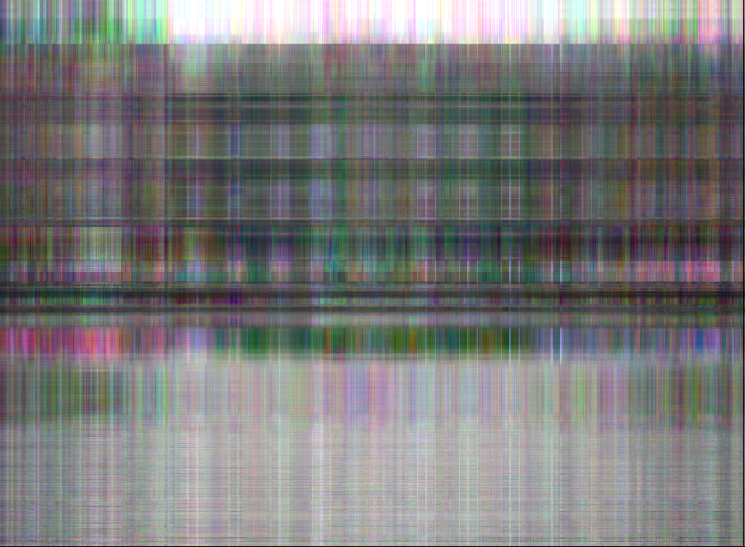
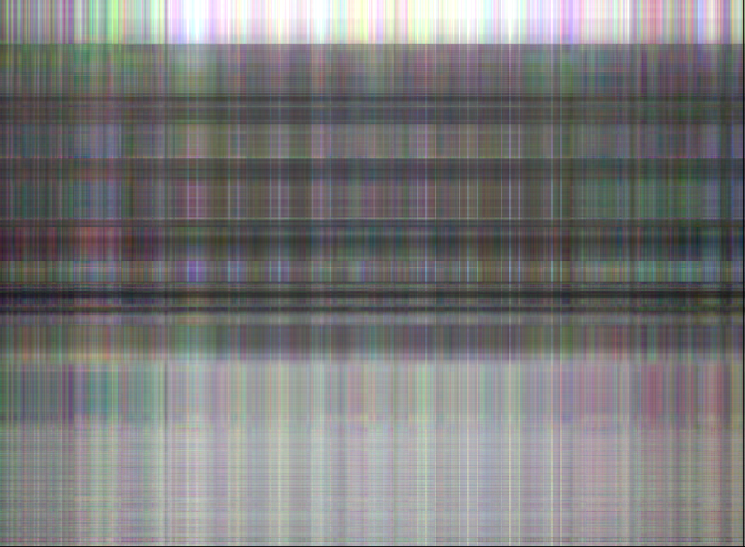
Done

diff --git a/RunMeNMF3.m b/RunMeNMF3.m
@@ -7,7 +7,7 @@ nbvisages = 100; %pour ne pas travailler sur l'ensemble des 2429 visages, mais o
 Xtemp=X(:,1:nbvisages);
 affichage(Xtemp,20,19,19);
 
-r = 8;
+r = 4;
 timelimit=30;
 
 [m,n]=size(Xtemp);

diff --git a/RunMeNMF2.m b/RunMeNMF2.m
@@ -29,4 +29,6 @@ I(:,:,1)=uint8(X1t);
 I(:,:,2)=uint8(X2t);
 I(:,:,3)=uint8(X3t);
 
-imwrite(I,"pl-reduite.png");
+imwrite(I,"pl-reduite2.png");
+
+fprintf('Done!');

diff --git a/RunMeNMF.m b/RunMeNMF.m
@@ -1,6 +1,6 @@
 clear all; clc; close all;
 load exemplenmf1.mat;
-r=6;
+r=5;
 W0= rand(6,r);
 H0=rand(r,6);
 
